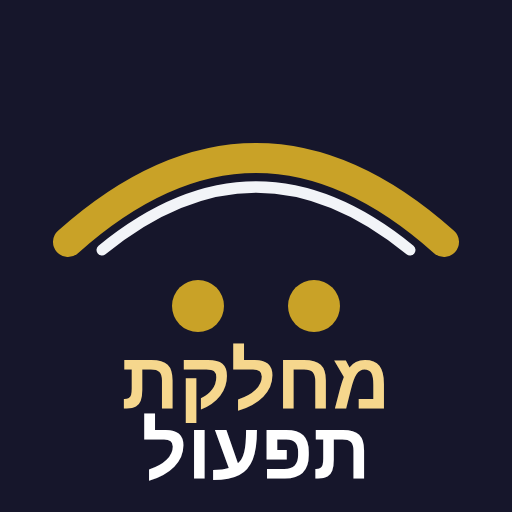
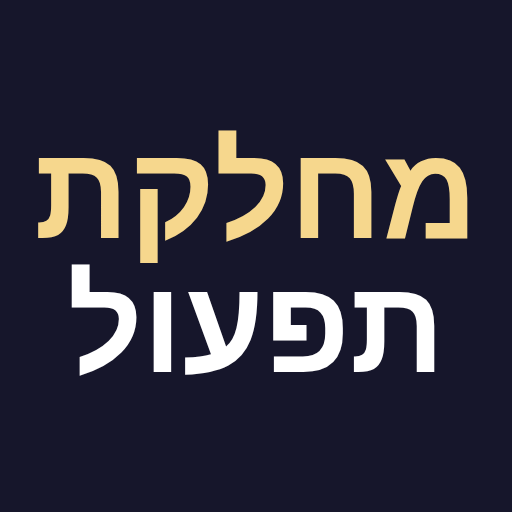
אייקון האפליקציה: רק הכיתוב "מחלקת תפעול"
הקשת והנקודות ירדו. בלי הסמל יש מקום להגדיל את הכיתוב פי אחד וחצי,
ולכן הוא קריא הרבה יותר בגודל שבו האייקון באמת מוצג במסך הבית.

הוחלפו ארבעת הגדלים: 512, 192, 180 ו-64.

Claude-Session: https://claude.ai/code/session_01G2yVW5bqwLgM2XagujcnrY

Changed region(s): [[0.0625, 0.25, 0.9375, 0.9375]]

diff --git a/ops/index.html b/ops/index.html
@@ -4092,20 +4092,20 @@ window.dispatchEvent(new Event('firebase-ready'));
 </script>
 
 <script src="js/utils.js?v=214"></script>
-<script src="js/app/01-core.js?v=406"></script>
-<script src="js/app/02-home-calendar.js?v=406"></script>
-<script src="js/app/03-tasks.js?v=406"></script>
-<script src="js/app/04-intake-plate.js?v=406"></script>
-<script src="js/app/05-intake-forms.js?v=406"></script>
-<script src="js/app/06-recall-inventory.js?v=406"></script>
-<script src="js/app/07-bodyshop.js?v=406"></script>
-<script src="js/app/08-ownership-wash.js?v=406"></script>
-<script src="js/app/09-battery.js?v=406"></script>
-<script src="js/app/10-battery-plate.js?v=406"></script>
-<script src="js/app/11-yard-telegram.js?v=406"></script>
-<script src="js/app/12-pickup.js?v=406"></script>
-<script src="js/app/13-reports.js?v=406"></script>
-<script src="js/app/14-tow-invoice.js?v=406"></script>
+<script src="js/app/01-core.js?v=407"></script>
+<script src="js/app/02-home-calendar.js?v=407"></script>
+<script src="js/app/03-tasks.js?v=407"></script>
+<script src="js/app/04-intake-plate.js?v=407"></script>
+<script src="js/app/05-intake-forms.js?v=407"></script>
+<script src="js/app/06-recall-inventory.js?v=407"></script>
+<script src="js/app/07-bodyshop.js?v=407"></script>
+<script src="js/app/08-ownership-wash.js?v=407"></script>
+<script src="js/app/09-battery.js?v=407"></script>
+<script src="js/app/10-battery-plate.js?v=407"></script>
+<script src="js/app/11-yard-telegram.js?v=407"></script>
+<script src="js/app/12-pickup.js?v=407"></script>
+<script src="js/app/13-reports.js?v=407"></script>
+<script src="js/app/14-tow-invoice.js?v=407"></script>
 
 <!-- ═══ רענון רכב modals ═══ -->
 <div class="modal-overlay" id="modal-refresh-edit">

diff --git a/ops/sw.js b/ops/sw.js
@@ -1,4 +1,4 @@
-// v406 — force update
+// v407 — force update
 self.addEventListener('install', () => self.skipWaiting());
 self.addEventListener('activate', e => e.waitUntil(clients.claim()));
 
